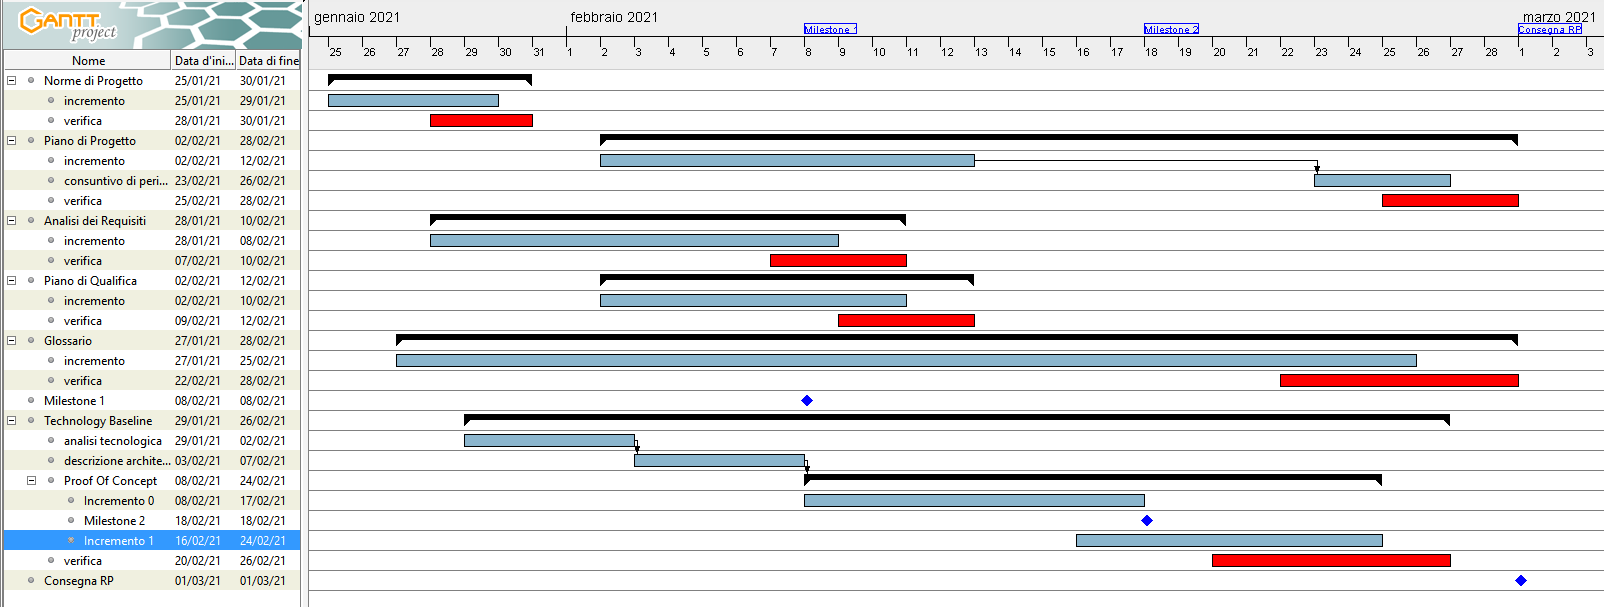
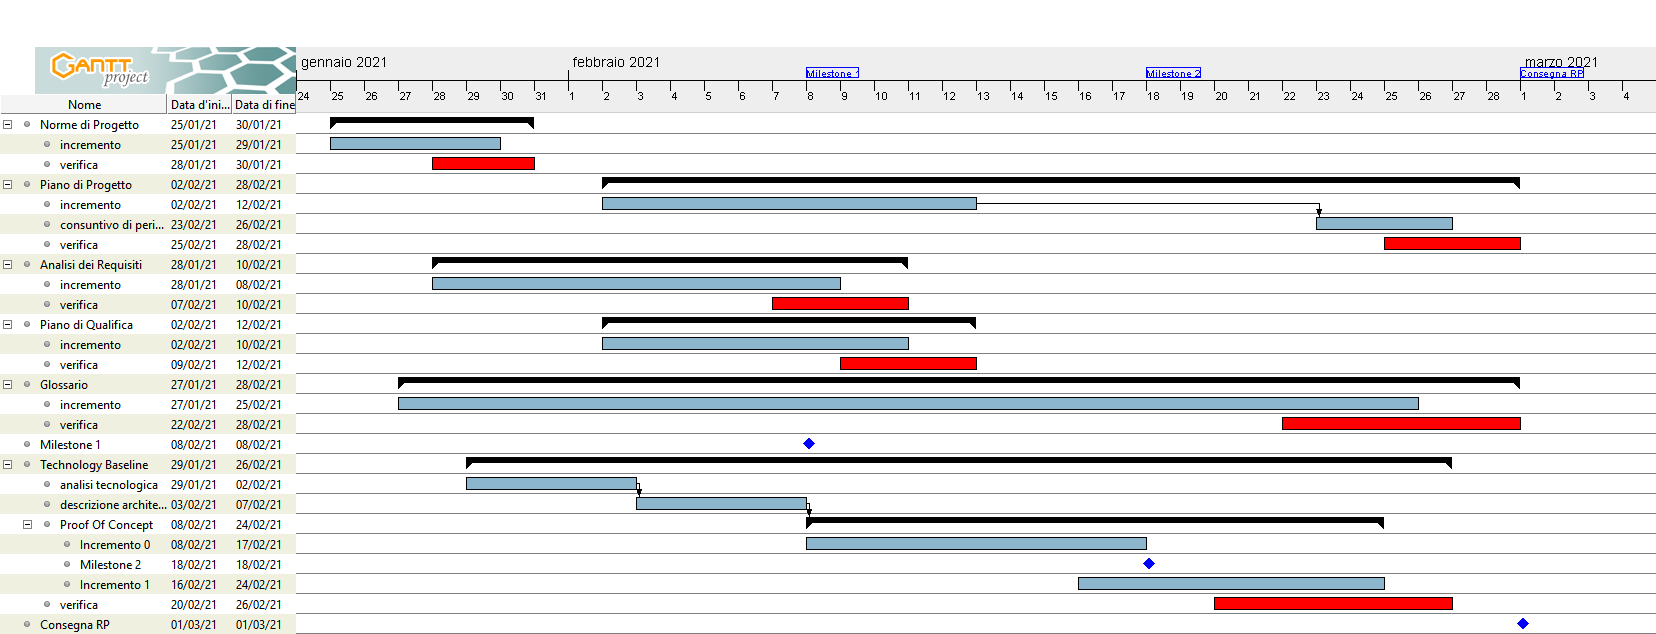
Fix progettazione dettaglio e codifica e gantt

diff --git a/DocEsterna/PianoDiProgetto/Section/Subsection/ProgettazioneDettaglioCodifica.tex b/DocEsterna/PianoDiProgetto/Section/Subsection/ProgettazioneDettaglioCodifica.tex
@@ -2,53 +2,52 @@
 Questa fase comincia in seguito a quella precedente e termina con la \textit{Revisione di Qualifica}, ovvero dal 08/03/2020 al 02/04/2020. Di seguito vengono riportate tutte le attività.
 
 \begin{itemize}
-	\item \textbf{Incremento e verifica dei documenti}: verrà realizzato un documento contenente tutte le caratteristiche del prodotto e il cosiddetto \textit{Manuale utente}. Inoltre, in caso di necessità, alcuni documenti verranno aggiornati;
+	\item \textbf{Incremento e verifica dei documenti}: verrà realizzato un documento contenente tutte le caratteristiche del prodotto, il \textit{Manuale utente} e il \textit{Manuale sviluppatore}. Inoltre, in caso di necessità, alcuni documenti verranno aggiornati;
 	\item \textbf{Incremento e verifica delle attività}: viene ampliato lo studio delle tecnologie mancanti, necessarie per lo sviluppo del prodotto; 
-	\item \textbf{\glo{Product Baseline}}: vengono realizzati i \textit{diagrammi delle classi}, che consentono di descrivere tipi di entità (con le loro caratteristiche e le eventuali relazioni), e i \textit{diagrammi delle attività}, che permettono di descrivere i vari processi. Inoltre verranno analizzati design patterns esistenti, con il fine di scegliere quello più adatto per il prodotto da creare.
-	\item \textbf{\glo{Scrittura del codice e incrementi}}: viene realizzata la codifica, partendo dal \textit{Proof of Concept} già presente. Gli incrementi consistono nell'implementare sempre più casi d'uso, stabiliti nell'\textit{Analisi dei Rischi}, iterando tra progettazione di dettaglio e realizzazione. La priorità sarà nei confronti di quelli obbligatori: in questo modo per ciascun caso d'uso, nell'eventualità di mancato completamento entro il periodo stabilito, è possibile attuare in sicurezza una ripianificazione dell'attività in questione. \\
-	
+	\item \textbf{\glo{Product Baseline}}: vengono realizzati i \textit{diagrammi delle classi}, che consentono di descrivere tipi di entità (con le loro caratteristiche e le eventuali relazioni), i \textit{diagrammi delle attività}, che permettono di descrivere i vari processi e i \textit{diagrammi di sequenza}. Inoltre verranno analizzati design patterns esistenti, con il fine di scegliere quello più adatto per il prodotto da creare.
+	\item \textbf{\glo{Scrittura del codice e incrementi}}: viene realizzata la codifica, partendo dal \textit{Proof of Concept} già presente. Gli incrementi consistono nell'implementare sempre più casi d'uso, stabiliti nell'\textit{Analisi dei Requisiti}, iterando tra progettazione di dettaglio e realizzazione. La priorità sarà nei confronti di quelli obbligatori: in questo modo per ciascun caso d'uso, nell'eventualità di mancato completamento entro il periodo stabilito, è possibile attuare in sicurezza una ripianificazione dell'attività in questione.
 	\begin{itemize}
-	\item \textbf{Incremento 1}: il gruppo si prepara alle attività di progettazione di dettaglio e codifica, inoltre verranno incrementanti i documenti per verifica e miglioramento continuo;
+	\item \textbf{Incremento 1}: viene studiata la libreria D3.js per individuare i parametri configurabili della visualizzazione Scatter Plot Matrix, e successivamente implementata nell'UI una sezione per permettere all'utente la personalizzazione di tale vista. Inizio stesura della documentazione da correlare al prodotto software.\textbf{[aggiungere riferimenti agli UC]};
 	
-	\item \textbf{Incremento 2}: viene studiata la libreria D3.js per individuare i parametri configurabili della visualizzazione Scatter Plot Matrix, e successivamente implementata nell'UI una sezione per permettere all'utente la personalizzazione di tale vista. Inizio stesura della documentazione da correlare al prodotto software.\textbf{[aggiungere riferimenti agli UC]};
+	\item \textbf{Incremento 2}: viene studiata la libreria D3.js per implementare la visualizzazione Heat Map e per individuare i relativi parametri di configurabili, viene successivamente implementata nell'UI una sezione per permettere all'utente la personalizzazione di tale vista. Incremento della documentazione da correlare al prodotto software e incremento della documentazione per verifica e miglioramento continuo.\textbf{[aggiungere riferimenti agli UC]};
 	
-	\item \textbf{Incremento 3}: viene studiata la libreria D3.js per implementare la visualizzazione Heat Map e per individuare i relativi parametri di configurabili, viene successivamente implementata nell'UI una sezione per permettere all'utente la personalizzazione di tale vista. Incremento della documentazione da correlare al prodotto software e incremento della documentazione per verifica e miglioramento continuo.\textbf{[aggiungere riferimenti agli UC]};
+	\item \textbf{Incremento 3}: viene studiata la libreria D3.js per implementare la visualizzazione Force Field e per individuare i relativi parametri di configurabili, viene successivamente implementata nell'UI una sezione per permettere all'utente la personalizzazione di tale vista. Incremento della documentazione da correlare al prodotto software e incremento della documentazione per verifica e miglioramento continuo.\textbf{[aggiungere riferimenti agli UC]};
 	
-	\item \textbf{Incremento 4}: viene studiata la libreria D3.js per implementare la visualizzazione Force Field e per individuare i relativi parametri di configurabili, viene successivamente implementata nell'UI una sezione per permettere all'utente la personalizzazione di tale vista. Incremento della documentazione da correlare al prodotto software e incremento della documentazione per verifica e miglioramento continuo.\textbf{[aggiungere riferimenti agli UC]};
+	\item \textbf{Incremento 4}: viene studiata la libreria D3.js per implementare la visualizzazione Proiezione Lineare Multi Asse e per individuare i relativi parametri di configurabili, viene successivamente implementata nell'UI una sezione per permettere all'utente la personalizzazione di tale vista. Incremento della documentazione da correlare al prodotto software e incremento della documentazione per verifica e miglioramento continuo.\textbf{[aggiungere riferimenti agli UC]};
 	
-	\item \textbf{Incremento 5}: viene studiata la libreria D3.js per implementare la visualizzazione Proiezione Lineare Multi Asse e per individuare i relativi parametri di configurabili, viene successivamente implementata nell'UI una sezione per permettere all'utente la personalizzazione di tale vista. Incremento della documentazione da correlare al prodotto software e incremento della documentazione per verifica e miglioramento continuo.\textbf{[aggiungere riferimenti agli UC]};
+	\item \textbf{Incremento 5}: il gruppo identifica e implementa la soluzione più adeguata per la gestione della sessione nell'applicazione. Incremento della documentazione da correlare al prodotto software e incremento della documentazione per verifica e miglioramento continuo.\textbf{[aggiungere riferimenti agli UC]};
 	
-	\item \textbf{Incremento 6}: il gruppo identifica e implementa la soluzione più adeguata per la gestione della sessione nell'applicazione. Incremento della documentazione da correlare al prodotto software e incremento della documentazione per verifica e miglioramento continuo.\textbf{[aggiungere riferimenti agli UC]};
+	\item \textbf{Incremento 6}: si pone l'attenzione nell'implementazione di un database già popolato e nell'implementazione di una relativa sezione nell'UI in cui l'utente possa digitare una query per la selezione dei dati. Incremento della documentazione da correlare al prodotto software e incremento della documentazione per verifica e miglioramento continuo.\textbf{[aggiungere riferimenti agli UC]};
 	
-	\item \textbf{Incremento 7}: si pone l'attenzione nell'implementazione di un database già popolato e nell'implementazione di una relativa sezione nell'UI in cui l'utente possa digitare una query per la selezione dei dati. Incremento della documentazione da correlare al prodotto software e incremento della documentazione per verifica e miglioramento continuo.\textbf{[aggiungere riferimenti agli UC]};
-	
-	\item \textbf{Incremento 8}: viene perfezionato il codice precedentemente scritto grazie alle correzioni ricevute durante la \textit{Technology Baseline} e dal proponente, e vengono verificati tutti i documenti precedentemente redatti.\textbf{[aggiungere riferimenti agli UC]}.
+	\item \textbf{Incremento 7}: viene perfezionato il codice precedentemente scritto grazie alle correzioni ricevute durante la \textit{Technology Baseline} e dal proponente, e vengono verificati tutti i documenti precedentemente redatti.\textbf{[aggiungere riferimenti agli UC]}.
 	\end{itemize}
 \end{itemize}
 
 \subsubsection{Periodi}
 La pianificazione di questa fase è stata organizzata nel modo seguente:
 \begin{itemize}
-\item \textbf{08/03/2020 - 12/03/2020}: il primo periodo ha una milestone fissata per il suo ultimo giorno, entro tale giorno dovrà essere completato il primo incremento.
+\item \textbf{08/03/2020 - 10/03/2020}: durante il primo periodo il gruppo si prepara alle attività di progettazione di dettaglio e codifica, inoltre vengono incrementanti i documenti per verifica e miglioramento continuo;
 
-\item \textbf{12/03/2020 - 13/03/2020}: il secondo periodo ha una milestone fissata per il suo ultimo giorno, entro tale giorno dovrà essere completato il secondo incremento.
+\item \textbf{10/03/2020 - 12/03/2020}: il secondo periodo ha una milestone fissata per il suo ultimo giorno, entro tale giorno dovrà essere completato il primo incremento, dovrà essere iniziata la stesura dell'\textit{Allegato tecnico} e saranno scelti i design patterns più adatti per il prodotto;
 
-\item \textbf{14/03/2020 - 16/03/2020}: il terzo periodo ha una milestone fissata per il suo ultimo giorno, entro tale giorno dovrà essere completato il terzo incremento.
+\item \textbf{12/03/2020 - 15/03/2020}: il terzo periodo ha una milestone fissata per il suo ultimo giorno, entro tale giorno dovrà essere completato il secondo incremento;
 
-\item \textbf{17/03/2020 - 19/03/2020}: il quarto periodo ha una milestone fissata per il suo ultimo giorno, entro tale giorno dovrà essere completato il quarto incremento.
+\item \textbf{15/03/2020 - 18/03/2020}: il quarto periodo ha una milestone fissata per il suo ultimo giorno, entro tale giorno dovrà essere completato il terzo incremento e dovrà essere cominciata la stesura del \textit{Manuale utente} e del \textit{Manuale sviluppatore}, dovranno anche essere completati i diagrammi delle classi e i diagrammi delle attività;
 
-\item \textbf{20/03/2020 - 22/03/2020}: il quinto periodo ha una milestone fissata per il suo ultimo giorno, entro tale giorno dovrà essere completato il quinto incremento.
+\item \textbf{18/03/2020 - 21/03/2020}: il quinto periodo ha una milestone fissata per il suo ultimo giorno, entro tale giorno dovrà essere completato il quarto incremento e dovranno essere completati i diagrammi di sequenza;
 
-\item \textbf{23/03/2020 - 26/03/2020}: il sesto periodo ha una milestone fissata per il suo ultimo giorno, entro tale giorno dovrà essere completato il sesto incremento.
+\item \textbf{21/03/2020 - 25/03/2020}: il sesto periodo ha una milestone fissata per il suo ultimo giorno, entro tale giorno dovrà essere completato il quinto incremento;
 
-\item \textbf{27/03/2020 - 30/03/2020}: il settimo periodo ha una milestone fissata per il suo ultimo giorno, entro tale giorno dovrà essere completato il settimo incremento.
+\item \textbf{25/03/2020 - 29/03/2020}: il settimo periodo ha una milestone fissata per il suo ultimo giorno, entro tale giorno dovrà essere completato il sesto incremento;
 
-\item \textbf{31/03/2020 - 02/04/2020}: l'ottavo periodo ha una milestone fissata per il suo ultimo giorno, entro tale giorno dovrà essere completato l'ottavo incremento.
+\item \textbf{29/03/2020 - 31/04/2020}: l'ottavo periodo ha una milestone fissata per il suo ultimo giorno, entro tale giorno dovrà essere completato il settimo incremento, dovranno essere completati i manuali e l'\textit{Allegato tecnico};
+
+\item \textbf{31/04/2020 - 02/04/2020}: durante il non e ultimo periodo, che termina con la consegna della \textit{Revisione di Qualifica} verranno concluse le operazioni di verifica sui documenti e sul codice.
 
 \end{itemize}
 
 \subsubsection{Diagramma di Gantt: Progettazione di dettaglio e Codifica}
-\begin{figure}[h]
-	\includegraphics[scale=0.45]{Images/GanttPianificazioneAnalisi.PNG}
+\begin{figure}
+	\includegraphics[scale=0.35]{Images/GanttPianificazioneProgettazioneDettaglioCodifica.png}
 	\caption{Diagramma di Gantt dell'attività di Progettazione di dettaglio e Codifica}
 \end{figure}

diff --git a/DocEsterna/PianoDiProgetto/Section/Subsection/ProgettazioneArchitetturale.tex b/DocEsterna/PianoDiProgetto/Section/Subsection/ProgettazioneArchitetturale.tex
@@ -29,6 +29,6 @@ La pianificazione di questa fase è stata organizzata nel modo seguente:
 
 \subsubsection{Diagramma di Gantt: Progettazione architetturale}
 \begin{figure}[h]
-	\includegraphics[scale=0.40]{Images/GanttPianificazioneProgettazioneArchitetturale.PNG}
+	\includegraphics[scale=0.30]{Images/GanttPianificazioneProgettazioneArchitetturale.PNG}
 	\caption{Diagramma di Gantt dell'attività di Progettazione Architetturale}
 \end{figure}

diff --git a/DocEsterna/PianoDiProgetto/PianoDiProgetto.tex b/DocEsterna/PianoDiProgetto/PianoDiProgetto.tex
@@ -24,7 +24,7 @@
 \input{Section/ModelloSviluppo.tex}
 \newpage
 \input{Section/Pianificazione.tex}
-%\newpage
+\newpage
 \input{Section/Preventivo.tex}
 \newpage
 \input{Section/Consuntivo.tex}
